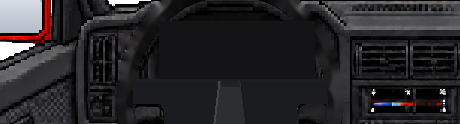
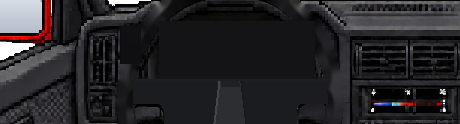
Lanternas e freio brilhando à noite, resolução de desenho maior e mancha do volante do Gaúcho GTI
- Noite: brilho em cada lâmpada de verdade (posição medida por carro); lanternas acesas com
  halo, freio bem mais forte com halo grande e reflexo vermelho no asfalto, setas âmbar
  piscando; faróis com foco e halo (mais largos no farol alto); trânsito acende o freio
  quando desacelera
- Resolução: o canvas acompanha os pixels da tela (4x em celular, 2x no econômico, sempre
  par para o meio pixel dos mostradores); carros rasterizados em resolução cheia a partir
  de 20 px e objetos da beira da pista no dobro; o econômico automático volta a 2x se o
  aparelho não aguentar
- Gaúcho GTI: o borrão no painel à esquerda do volante vira plástico liso

Claude-Session: https://claude.ai/code/session_01MLD9VR7gkmY4w6a9beZcp6

Changed region(s): [[0.2435, 0.2419, 0.3043, 0.4839], [0.2435, 0.4839, 0.2739, 0.5323]]

diff --git a/src/nightlight.ts b/src/nightlight.ts
@@ -4,7 +4,7 @@
 // vem atrás ofusca nos retrovisores e, ao emparelhar, clareia o lado da tela por onde passa.
 import type { CarLook } from './cars';
 
-interface Light { x: number; y: number; w: number; front: boolean }
+interface Light { x: number; y: number; w: number; h: number; front: boolean; brake: boolean; signal: number; dots: number[][]; high: boolean }
 const lights: Light[] = [];
 let collecting = false;
 
@@ -13,10 +13,11 @@ export function beginLights() {
   collecting = true;
 }
 // chamado por drawCar: guarda onde estão as luzes do carro (só durante a pista, à noite)
-export function pushCarLights(x: number, y: number, w: number, look: CarLook) {
+export function pushCarLights(x: number, y: number, w: number, look: CarLook, spots: { h: number; dots: number[][] }) {
   if (!collecting || !look.night || w < 3) return;
-  lights.push({ x, y, w, front: !!look.front });
+  lights.push({ x, y, w, h: spots.h, front: !!look.front, brake: !!look.brake, signal: look.signal ?? 0, dots: spots.dots, high: !!look.flash || !!look.lamps?.high });
 }
+const blinkOn = () => Math.floor(performance.now() / 250) % 2 === 0;
 
 // escuridão com o facho dos faróis do jogador (camada guardada, refeita se mudar o tamanho)
 let dark: HTMLCanvasElement | null = null;
@@ -81,13 +82,35 @@ export function finishNight(c: CanvasRenderingContext2D, vp: { x: number; y: num
   c.save();
   c.globalCompositeOperation = 'lighter';
   for (const l of lights) {
+    const L = l.x - l.w / 2, T = l.y - l.h;
+    const pts = l.dots.map(([u, f]) => [L + u * l.w, T + f * l.h]);
     if (l.front) {
-      // faróis de quem vem de frente: dois focos fortes e o clarão na pista à frente dele
-      for (const s of [-0.33, 0.33]) blob(c, l.x + s * l.w, l.y - l.w * 0.26, l.w * 0.3, l.w * 0.22, '255,244,200', 0.6 * strength);
-      blob(c, l.x, l.y + l.w * 0.05, l.w * 0.9, l.w * 0.18, '255,240,190', 0.22 * strength);
+      // faróis de quem vem de frente: foco forte em cada farol, halo e o clarão na pista à frente
+      const k = l.high ? 1.5 : 1;
+      for (const [px, py] of pts) {
+        blob(c, px, py, l.w * 0.34 * k, l.w * 0.24 * k, '255,244,200', 0.5 * strength);
+        blob(c, px, py, l.w * 0.08, l.w * 0.07, '255,255,240', 0.9 * strength);
+      }
+      blob(c, l.x, l.y + l.w * 0.05, l.w * 0.9 * k, l.w * 0.18, '255,240,190', 0.22 * strength);
     } else {
-      // lanternas de quem vai na frente
-      for (const s of [-0.38, 0.38]) blob(c, l.x + s * l.w, l.y - l.w * 0.28, l.w * 0.16, l.w * 0.11, '255,40,24', 0.55 * strength);
+      // lanternas: brilho vermelho em cada lâmpada; no freio fica bem mais forte, com halo
+      // grande e o reflexo vermelho no asfalto atrás do carro
+      for (const [px, py] of pts) {
+        if (l.brake) {
+          blob(c, px, py, l.w * 0.42, l.w * 0.3, '255,30,16', 0.32 * strength);
+          blob(c, px, py, l.w * 0.13, l.w * 0.1, '255,90,60', 0.85 * strength);
+        } else {
+          blob(c, px, py, l.w * 0.2, l.w * 0.14, '255,36,20', 0.42 * strength);
+          blob(c, px, py, l.w * 0.06, l.w * 0.05, '255,80,50', 0.6 * strength);
+        }
+      }
+      blob(c, l.x, l.y + l.w * 0.03, l.w * (l.brake ? 0.85 : 0.6), l.w * 0.1, '255,30,16', (l.brake ? 0.28 : 0.12) * strength);
+    }
+    // seta piscando: brilho âmbar do lado para onde vai
+    if (l.signal && blinkOn()) {
+      const [px, py] = pts[l.signal > 0 ? pts.length - 1 : 0] ?? [l.x, l.y - l.h / 2];
+      const sx = l.front ? (l.signal > 0 ? L + l.w * 0.08 : L + l.w * 0.92) : px; // de frente o lado se inverte
+      blob(c, sx, py, l.w * 0.22, l.w * 0.16, '255,160,30', 0.6 * strength);
     }
   }
   // quem vem atrás com farol aceso: o lado por onde passa clareia, mais forte ao emparelhar,

diff --git a/src/main.ts b/src/main.ts
@@ -1,6 +1,6 @@
 import { stageResult } from './score';
 import '@fontsource/press-start-2p/400.css';
-import { RES, view } from './config';
+import { RES, setRes, view } from './config';
 import { CARS, TRAFFIC_IMAGES } from './cars';
 import { COURSES, completeCourse, unlockedCourses, withTimeOfDay, type Course } from './courses';
 import { ui as careerUi } from './careerScreens';
@@ -16,7 +16,7 @@ import { input, pollGamepad, releaseAll, setupInput } from './input';
 import { initAudio, playMusic, setEngine, setMusicOn, setMuted, setSiren, setTires } from './audio';
 import { stopTrafficAudio } from './trafficaudio';
 import { preloadSvg } from './svgsprites';
-import { perfSample } from './perf';
+import { lowFx, perfSample } from './perf';
 import { F40_REAR, F40_SIDE, F40_WHEEL } from './svg/f40';
 
 preloadSvg(F40_SIDE, F40_REAR, F40_WHEEL, ...CARS.flatMap((c) => [c.imgSide, c.sideMask, c.rear.img, c.rear.imgMask, c.rear.frontImg, c.rear.frontMask]).filter((s): s is string => !!s), ...TRAFFIC_IMAGES);
@@ -205,11 +205,15 @@ function resize() {
   view.w = Math.round(Math.min(race ? 460 : 520, Math.max(race ? 256 : 320, (view.h * screenAspect) / view.aspect)));
   // resolução interna 2x: tudo continua desenhado em pixels nativos (e ampliado sem
   // suavizar), mas os detalhes finos (números dos mostradores) podem usar meio pixel
+  const scale = Math.min(availW / (view.w * view.aspect), availH / view.h);
+  // resolução de desenho: acompanha os pixels reais da tela (pista, carros e objetos mais
+  // definidos); no econômico fica em 2
+  const dev = scale * (window.devicePixelRatio || 1);
+  setRes(dev >= 3.5 && !lowFx() ? 4 : 2);
   canvas.width = view.w * RES;
   canvas.height = view.h * RES;
   ctx.setTransform(RES, 0, 0, RES, 0, 0);
   ctx.imageSmoothingEnabled = false;
-  const scale = Math.min(availW / (view.w * view.aspect), availH / view.h);
   canvas.style.width = `${view.w * view.aspect * scale}px`;
   canvas.style.height = `${view.h * scale}px`;
 }
@@ -270,6 +274,7 @@ function frame(now: number) {
   requestAnimationFrame(frame);
 }
 let frameErr = false;
+let lastLow = false;
 const gearEl = document.getElementById('gearNum')!;
 function frameInner(now: number) {
   const dt = Math.max(0, Math.min(0.25, (now - last) / 1000)); // o primeiro quadro pode vir antes de `last`
@@ -308,6 +313,11 @@ function frameInner(now: number) {
     }
     if (state.screen === 'race') {
       if (!paused) perfSample(dt);
+      // o econômico (escolhido ou automático) também baixa a resolução de desenho para 2x
+      if (lowFx() !== lastLow) {
+        lastLow = lowFx();
+        resize();
+      }
       renderCockpit(ctx, race, state.lives, `${race.stageIdx + 1}/${run.course.stages.length}`, totalTime(), paused ? 0 : dt);
     } else drawScreen(ctx, state);
   } else {

diff --git a/src/cars.ts b/src/cars.ts
@@ -617,7 +617,7 @@ function glow(c: CanvasRenderingContext2D, x: number, y: number, w: number, rgb:
 
 // carros grandes na tela são rasterizados na resolução real (RES pixels por pixel do jogo);
 // os pequenos e distantes, na do jogo (economiza memória e tempo na corrida)
-const hiRes = (w: number) => (w >= 40 ? RES : 1);
+const hiRes = (w: number) => (w >= 20 ? RES : Math.max(1, RES / 2)); // os longe, na metade (economiza memória)
 
 // Carro visto de trás (ou de frente, se vier na contramão). (x, y) = centro da base.
 // Trânsito e viatura em pixel art (tools/art/traffic.py); a cor de cada carro vem da máscara
@@ -672,6 +672,28 @@ function drawTrafficSprite(c: CanvasRenderingContext2D, x: number, y: number, w:
   }
   return true;
 }
+// onde ficam as lanternas (traseira) e quanto o carro tem de altura na tela, para o brilho
+// noturno das luzes cair em cima das lâmpadas de verdade
+function lampSpots(w: number, look: CarLook): { h: number; dots: number[][] } {
+  const model = look.police ? (look.sv ? 'policesv' : 'police') : look.model;
+  if (!look.rear && model) {
+    const img = tpng(`${model}-${look.front ? 'front' : 'rear'}`);
+    const h = w * ((img && spriteAspect(img)) || 0.6);
+    return { h, dots: look.front ? [[0.2, 0.62], [0.8, 0.62]] : TRAFFIC_GLOW[model]?.dots ?? [[0.15, 0.6], [0.85, 0.6]] };
+  }
+  const R = look.rear;
+  const img = look.front ? R?.frontImg : R?.img;
+  const h = w * ((img && spriteAspect(img)) || R?.h || 0.6);
+  if (look.front) {
+    const hd = R?.lamps?.head;
+    return { h, dots: hd ? [[hd[0], hd[1]], [1 - hd[0], hd[1]]] : [[0.2, 0.55], [0.8, 0.55]] };
+  }
+  const g = R?.glow;
+  if (g?.dots?.length) return { h, dots: g.dots };
+  if (g?.bar) return { h, dots: [[g.bar[0] + 0.05, (g.bar[1] + g.bar[3]) / 2], [g.bar[2] - 0.05, (g.bar[1] + g.bar[3]) / 2]] };
+  return { h, dots: [[0.15, 0.55], [0.85, 0.55]] };
+}
+
 const TRAFFIC_GLOW: Record<string, { dots?: number[][]; siren?: number[][]; sirenFront?: number[][]; sirenColors?: string[]; sirenColorsFront?: string[] }> = {
   sedan: { dots: [[0.15, 0.6], [0.85, 0.6]] }, hatch: { dots: [[0.11, 0.62], [0.89, 0.62]] },
   pickup: { dots: [[0.06, 0.6], [0.94, 0.6]] }, van: { dots: [[0.06, 0.71], [0.94, 0.71]] },
@@ -697,7 +719,7 @@ export function drawCar(c: CanvasRenderingContext2D, x: number, y: number, w: nu
     c.restore();
     return;
   }
-  pushCarLights(x, y, w, look);
+  if (look.night) pushCarLights(x, y, w, look, lampSpots(w, look));
   // trânsito e polícia: sprites em pixel art (o desenho por código fica de reserva)
   if (!look.rear && (look.police || look.model) && drawTrafficSprite(c, x, y, w, look, look.police ? (look.sv ? 'policesv' : 'police') : look.model!)) return;
   const variant = look.paint ? look.rear?.variants?.[look.paint] : undefined;

diff --git a/src/race.ts b/src/race.ts
@@ -40,7 +40,9 @@ function pickGameCar(u: number): CarSpec | undefined {
 }
 // aparência de um carro do trânsito (genérico ou modelo do jogo, com faróis e piscas próprios)
 export function trafficLook(t: TrafficCar, front: boolean, night: boolean, flash = false): CarLook {
-  const look: CarLook = { color: t.color, front, truck: t.truck, night, model: t.model, signal: t.signal, flash, tilt: t.tilt };
+  // freando: mais devagar do que gosta de andar (trânsito na mesma mão, atrás de alguém ou em pânico)
+  const brake = t.speed > 0 && t.speed < t.base * 0.9;
+  const look: CarLook = { color: t.color, front, truck: t.truck, night, model: t.model, signal: t.signal, flash, tilt: t.tilt, brake };
   if (t.car) Object.assign(look, { rear: t.car.rear, paint: t.color, lamps: { up: night || flash ? 1 : 0, on: night || flash, high: flash } });
   return look;
 }

diff --git a/src/crisp.ts b/src/crisp.ts
@@ -78,8 +78,10 @@ export function drawCrisp(
   c: CanvasRenderingContext2D, key: string, x: number, y: number, w: number, h: number, draw: Draw, ref = 96,
 ) {
   if (w < 1 || h < 1) return;
+  // rasterizado no dobro da resolução nativa: objetos da beira da pista mais definidos
+  const Q = 2;
   const k = h > ref ? ref / h : 1;
-  const s = crisp(key, w * k, h * k, draw);
+  const s = crisp(key, w * k * Q, h * k * Q, draw);
   const sx = w / s.w, sy = h / s.h;
   c.drawImage(s.cv, Math.round(x - w / 2 - sx), Math.round(y - h - sy), Math.round(s.cv.width * sx), Math.round(s.cv.height * sy));
 }

diff --git a/src/config.ts b/src/config.ts
@@ -19,4 +19,9 @@ export const KMH = 0.025; // unidades/s -> km/h
 export const ROOF_H = 24;
 export const DASH_Y = 120; // medido nas referências (pixels nativos 256x224)
 
-export const RES = 2; // pixels do canvas por pixel nativo
+// pixels do canvas por pixel nativo: 4 em telas densas (celular), 2 nas comuns ou no modo
+// econômico. Sempre par: o meio pixel dos mostradores continua caindo em pixel inteiro.
+export let RES = 2;
+export function setRes(n: number) {
+  RES = n;
+}

diff --git a/tools/ref/cockpit_cleanup.py b/tools/ref/cockpit_cleanup.py
@@ -49,6 +49,14 @@ def main():
     rgb = a[..., :3].astype(int)
     warm = (rgb[..., 0] > rgb[..., 2] + 12) & (rgb.mean(axis=2) > 45)  # o brilho rosado em volta
     print('GTI mancha:', inpaint(a, (reds(a) | warm) & zone))
+    # o borrão que a reconstrução deixou no lugar: painel liso, no tom do painel em volta,
+    # escurecendo de leve para baixo (como o resto do plástico)
+    ref = a[24:64, 142:150, :3].reshape(-1, 3).astype(int)
+    base = np.median(ref[ref.mean(axis=1) < 60], axis=0) if (ref.mean(axis=1) < 60).any() else np.array([26, 26, 30])
+    for y in range(26, 64):
+        k = 1.06 - 0.12 * (y - 26) / 38
+        a[y, 120:141, :3] = np.clip(base * k, 0, 255).astype(np.uint8)
+    a[26:64, 120, :3] = (12, 12, 14)  # vinco entre a saída de ar e o painel
     save(d, 'br-golgti', t, a)
     # Onça GTB: limpador levantado (separado do painel por céu) e ponto vermelho
     t, a = load(d, 'br-pumagtb')
